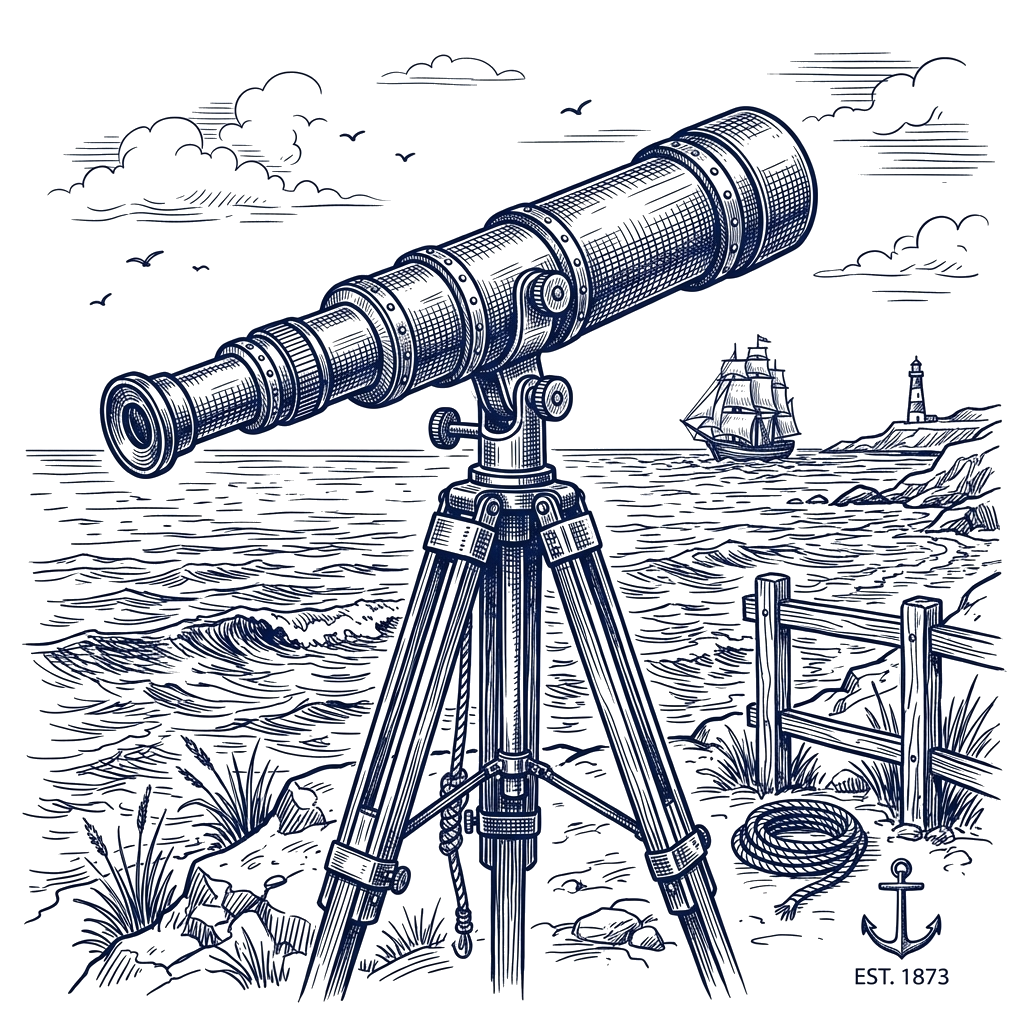
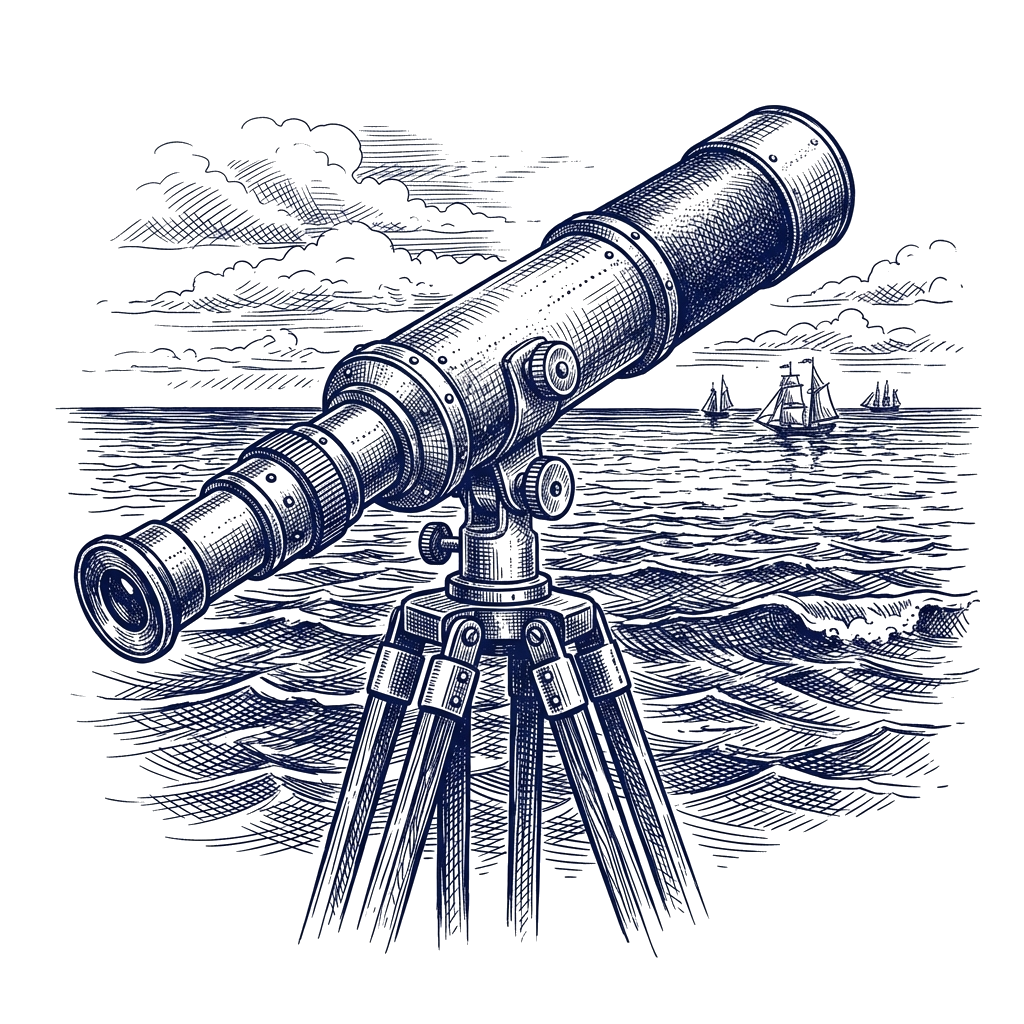
feat: remove Stay in the Loop newsletter section from global Footer

diff --git a/src/components/Footer.tsx b/src/components/Footer.tsx
@@ -30,84 +30,7 @@ export default function Footer() {
   return (
     <div className="bg-white w-full flex flex-col">
       
-      {/* 2. STAY IN THE LOOP BANNER */}
-      <section className="py-12 max-w-7xl mx-auto px-6 w-full">
-        <div className="border border-[#0F2C59]/10 rounded-[32px] p-8 sm:p-12 lg:p-16 bg-white relative overflow-hidden min-h-[240px] flex items-center justify-start">
-          
-          {/* Dashed trail & paper plane absolute overlay (visible on sm+) */}
-          <div className="absolute inset-0 pointer-events-none select-none z-0 hidden sm:block">
-            <svg className="w-full h-full text-[#FF6B00]" viewBox="0 0 1000 240" fill="none" xmlns="http://www.w3.org/2000/svg">
-              <path 
-                d="M120,60 C240,20 340,10 440,70 C520,110 560,130 600,100 C640,70 630,30 680,40" 
-                stroke="currentColor" 
-                strokeWidth="2" 
-                strokeDasharray="6 6" 
-                strokeLinecap="round" 
-              />
-              <g transform="translate(680, 36) rotate(-15)">
-                <svg className="w-8 h-8 text-[#0F2C59]" viewBox="0 0 24 24" fill="none" stroke="currentColor" strokeWidth="2" strokeLinecap="round" strokeLinejoin="round">
-                  <line x1="22" y1="2" x2="11" y2="13" />
-                  <polygon points="22 2 15 22 11 13 2 9 22 2" />
-                </svg>
-              </g>
-            </svg>
-          </div>
 
-          {/* Desktop version (Visible on lg and larger) - spans full height from absolute top to bottom */}
-          <div className="hidden lg:block absolute right-0 bottom-0 top-0 w-[45%] pointer-events-none select-none z-0">
-            <Image
-              src="/images/cta_lighthouse_ink.png"
-              alt="Lighthouse & Cottage Cliff Sketch (Desktop)"
-              fill
-              sizes="45vw"
-              className="object-contain object-right-bottom opacity-95"
-              priority
-            />
-          </div>
-
-          <div className="grid grid-cols-1 lg:grid-cols-12 gap-8 items-center relative z-10 w-full">
-            
-            {/* Left Side: Typography & Newsletter Form stacked */}
-            <div className="space-y-6 lg:col-span-7 text-left w-full relative z-10">
-              <div className="space-y-2">
-                <h3 className="font-serif text-2xl sm:text-3xl font-extrabold text-[#1D3D9E] leading-tight">
-                  Stay in the loop
-                </h3>
-                <p className="text-[#0F2C59]/75 text-sm sm:text-base">
-                  Tips, ideas, and insights to help your business grow.
-                </p>
-              </div>
-              
-              <form className="flex flex-col sm:flex-row gap-3 w-full max-w-md relative z-10" onSubmit={(e) => e.preventDefault()}>
-                <input
-                  type="email"
-                  placeholder="Enter your email"
-                  className="w-full bg-[#FAF6F0] border border-[#1D3D9E]/10 rounded-xl px-5 py-3 text-sm text-[#1D3D9E] placeholder-[#1D3D9E]/40 focus:outline-none focus:border-[#FF6B00] transition-colors"
-                  required
-                />
-                <button
-                  type="submit"
-                  className="bg-[#FF6B00] hover:bg-[#E05E00] text-white text-sm font-bold px-8 py-3 rounded-xl transition-all duration-200 cursor-pointer flex-shrink-0"
-                >
-                  Subscribe
-                </button>
-              </form>
-            </div>
-
-            {/* Right Side / Mobile Only: Sketched illustration container inside grid */}
-            <div className="block lg:hidden w-full h-[240px] sm:h-[280px] relative select-none mt-4 z-0">
-              <Image
-                src="/images/cta_lighthouse_ink.png"
-                alt="Lighthouse & Cottage Cliff Sketch (Mobile)"
-                fill
-                sizes="100vw"
-                className="object-contain object-bottom opacity-95"
-              />
-            </div>
-            
-          </div>
-        </div>
-      </section>
 
       {/* 3. DEEP BLUE FOOTER */}
       <footer className="bg-[#1D3D9E] text-white/80 py-16 w-full border-t border-[#1D3D9E]/10">